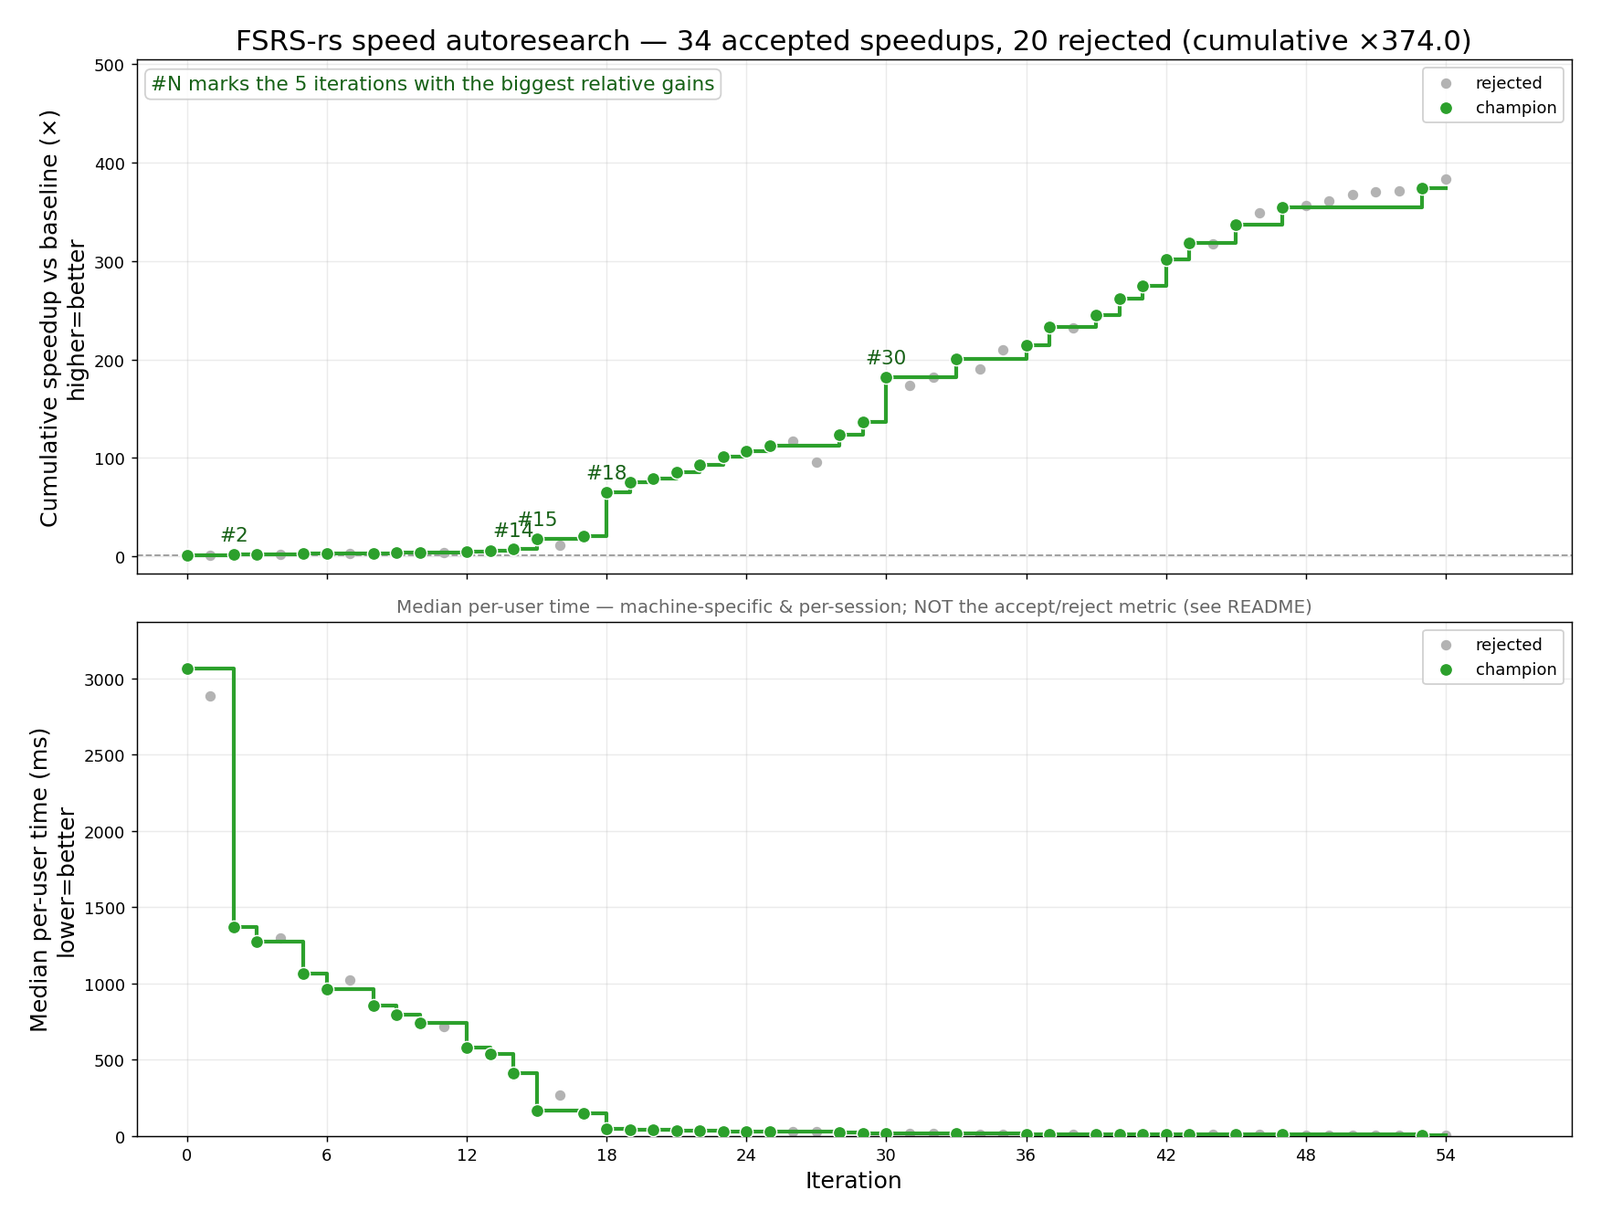
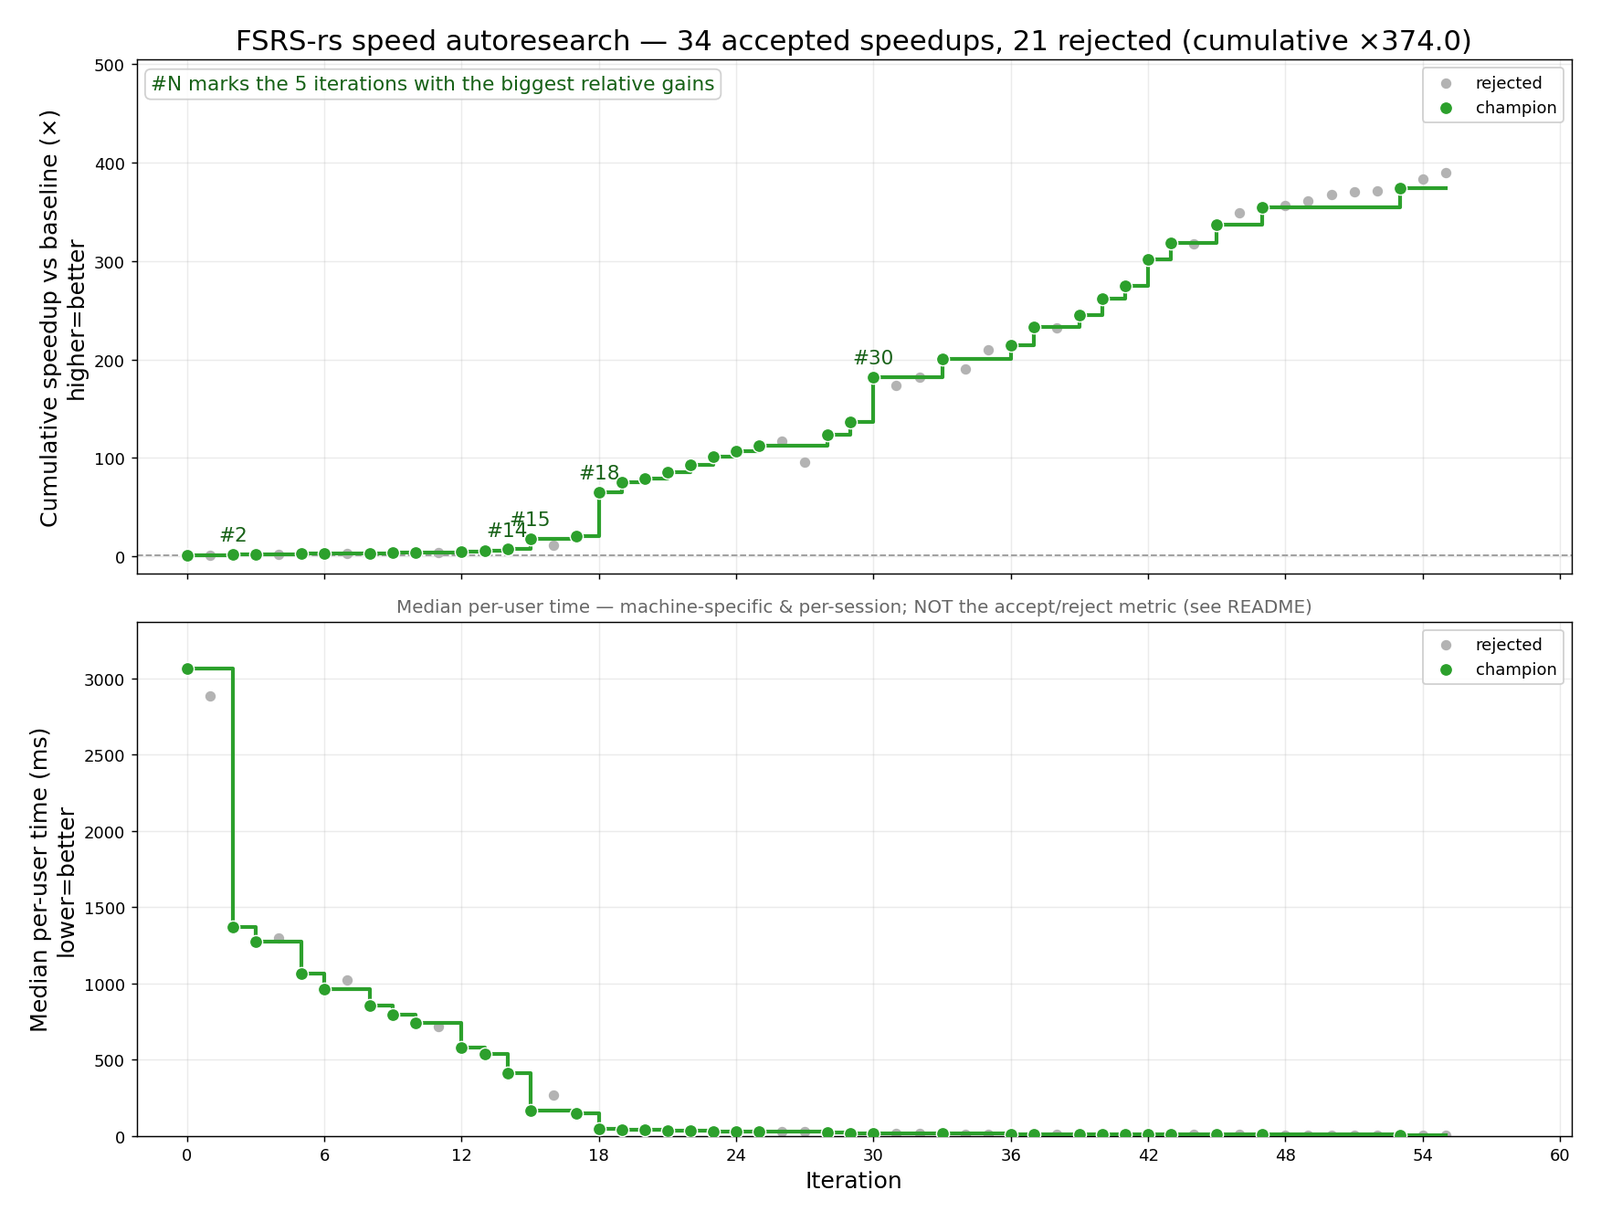
iter55 REJECTED (x1.043, kept for stacking): open-addressing card index, u64 bucket sort, last curve in the step loop
Paired vs champion cand130: 1.0450/1.0430/1.0420 (median 1.0430), n=1 x1.040.
1/50 param diff (the iter54 powf rounding user), LogLoss unchanged at 0.3083184.

diff --git a/fsrs-rs/src/kernel_simd.rs b/fsrs-rs/src/kernel_simd.rs
@@ -681,16 +681,18 @@ pub(super) fn step8_fwd<const FAST: bool, const PAD: bool>(
     w: &[f32], dt_raw: F, rating: F, state: (F, F, F), wc: &WConsts,
 ) -> ((F, F, F), Step8) {
     let mut c = Step8::default();
-    let ns = step8_fwd_into::<FAST, PAD>(w, dt_raw, rating, state, wc, &mut c);
+    let ns = step8_fwd_into::<FAST, PAD>(w, dt_raw, rating, state, wc, &mut c, false);
     (ns, c)
 }
 
 /// step8_fwd writing its cache into `slot` (reused across groups by card_group_grad): the forward
 /// stores each intermediate once, straight into the cache, instead of building the Step8 in
-/// registers and spill slots and copying it at the push. Returns the new state.
+/// registers and spill slots and copying it at the push. Returns the new state. `last`: a card
+/// group's last step, whose state update feeds no later step, computes its curve only (the loop
+/// runs the same code for it, so the hot code holds one copy of the curve).
 #[inline(always)]
 pub(super) fn step8_fwd_into<const FAST: bool, const PAD: bool>(
-    w: &[f32], dt_raw: F, rating: F, state: (F, F, F), wc: &WConsts, slot: &mut Step8,
+    w: &[f32], dt_raw: F, rating: F, state: (F, F, F), wc: &WConsts, slot: &mut Step8, last: bool,
 ) -> (F, F, F) {
     let k = F::splat;
     let one = k(1.0);
@@ -706,6 +708,9 @@ pub(super) fn step8_fwd_into<const FAST: bool, const PAD: bool>(
     let ln_last_sf = log2_8(last_sf);
     // r1 = short component recall — drives the short-trace update (iter-71)
     let (r, r1) = curve8_fwd_into::<FAST>(w, dt_raw, last_s, last_sf, last_d, wc, ln_last_s, ln_last_sf, curve);
+    if last {
+        return state;
+    }
     let slow_out = stab8_fwd_into::<FAST>(w, wc, last_s, last_d, r, rating, 7, wc.aa7, ln_last_s, slow);
     let fast_out = stab8_fwd_into::<FAST>(w, wc, last_sf, last_d, r1, rating, 15, wc.aa16, ln_last_sf, fast);
     let lapse = rating.cmp_eq(one).any();
@@ -737,10 +742,11 @@ pub(super) fn step8_fwd_into<const FAST: bool, const PAD: bool>(
 /// scored directly off this step's curve.out (nonzero only in the windowed O(N) forward, where every
 /// step emits a prediction); it is added to the two stab r-adjoints before curve8_bwd, since curve.out
 /// feeds the loss AND both stability traces. The O(N^2) callers pass 0 (their loss is the separate
-/// final curve). t >= 1 only (first8_bwd is the t==0 step).
+/// final curve). t >= 1 only (first8_bwd is the t==0 step). `last`: the curve-only last step (see
+/// step8_fwd_into); its output adjoint is 0, so only the curve's loss term contributes.
 #[inline(always)]
 pub(super) fn step8_bwd<const PAD: bool>(
-    w: &[f32], c: &Step8, g_out: (F, F, F), g_r_loss: F, gw: &mut [F; 34], wc: &WConsts,
+    w: &[f32], c: &Step8, g_out: (F, F, F), g_r_loss: F, gw: &mut [F; 34], wc: &WConsts, last: bool,
 ) -> (F, F, F) {
     let k = F::splat;
     let one = k(1.0);
@@ -749,6 +755,10 @@ pub(super) fn step8_bwd<const PAD: bool>(
     let Step8 { s0, d0, sf0, rating, curve, slow, fast, nd_out_pre, nd_delta_d, lapse } = c;
     // Cheap forward values recomputed with step8_fwd's exact ops (smaller per-step cache).
     let (last_s, last_d, last_sf) = (*s0, *d0, *sf0); // already clamped (see step8_fwd)
+    let m0 = rating.cmp_eq(z);
+    let (g_r_out, g_r1_short, acc, g_pad) = if last {
+        (g_r_loss, z, (z, z, z), (z, z, z))
+    } else {
     let nsf_pre = if *lapse {
         rating.cmp_eq(one).blend(fast.out.fast_min(k(0.8) * slow.out), fast.out)
     } else {
@@ -756,7 +766,6 @@ pub(super) fn step8_bwd<const PAD: bool>(
     };
     // PAD: rating==0 padding passes the state through (output == input), so its adjoint
     // flows straight through (see step8_fwd; the windowed path does not need this).
-    let m0 = rating.cmp_eq(z);
     let (ns3, nsf3) = if PAD {
         (m0.blend(last_s, slow.out), m0.blend(last_sf, nsf_pre))
     } else {
@@ -799,14 +808,14 @@ pub(super) fn step8_bwd<const PAD: bool>(
     // curve.out adjoint = long-stab r + windowed loss adjoint + next_d r; curve.r1 = short-stab r.
     // The input-state adjoints: g_last_s = g_ls_a + g_ls_d, g_last_sf = g_lsf_b + g_lsf_d and
     // g_last_d = ((g_ld_a + g_ld_b) + g_ld_c) + g_ld_d, summed inside curve8_bwd_acc.
-    let (mut g_last_s, mut g_last_sf, mut g_last_d) = curve8_bwd_acc::<true>(
-        w, curve, last_s, last_sf, last_d, g_r_curve + g_r_nextd, g_r1_short,
-        gw, wc, (g_ls_a, g_lsf_b, g_ld_ab + g_ld_c),
-    );
+    (g_r_curve + g_r_nextd, g_r1_short, (g_ls_a, g_lsf_b, g_ld_ab + g_ld_c), (g_ns3, g_nsf3, g_nd3))
+    };
+    let (mut g_last_s, mut g_last_sf, mut g_last_d) =
+        curve8_bwd_acc::<true>(w, curve, last_s, last_sf, last_d, g_r_out, g_r1_short, gw, wc, acc);
     if PAD {
-        g_last_s += m0.blend(g_ns3, z);
-        g_last_sf += m0.blend(g_nsf3, z);
-        g_last_d += m0.blend(g_nd3, z);
+        g_last_s += m0.blend(g_pad.0, z);
+        g_last_sf += m0.blend(g_pad.1, z);
+        g_last_d += m0.blend(g_pad.2, z);
     }
     // No clamp gate here: s0/d0/sf0 are the previous step's clamped outputs, and that step's
     // backward applies the same mask to this adjoint (S_MIN < x < S_MAX holds for the
@@ -870,10 +879,10 @@ pub(super) fn loss_and_grad_range_simd(
             curve8_bwd(w, &fc, s, sf, d, g_rraw, F::splat(0.0), &mut gw_g, &wc);
         for cache in caches.iter().rev() {
             // O(N^2) path: the only loss is the final curve (handled above), so no per-step adjoint.
-            (g_s, g_d, g_sf) = step8_bwd::<true>(w, cache, (g_s, g_d, g_sf), F::splat(0.0), &mut gw_g, &wc);
+            (g_s, g_d, g_sf) = step8_bwd::<true>(w, cache, (g_s, g_d, g_sf), F::splat(0.0), &mut gw_g, &wc, false);
         }
         first8_bwd(&first, (g_s, g_d, g_sf), &mut gw_g);
-        let gg = finish_gw::<false>(&gw_g, w, &wc);
+        let gg = finish_gw(&gw_g, w, &wc);
         for i in 0..34 {
             gw[i] += gg[i] as f64;
         }
@@ -965,6 +974,8 @@ pub(crate) fn card_group_grad(
     labels: &[f32], weights: &[f32], g: usize, caches: &mut Vec<Step8>,
 ) -> [f32; 34] {
     debug_assert!(seq_len >= 2, "windowed grad needs seq_len >= 2 (min surviving prefix length is 2)");
+    let k = F::splat;
+    let z = k(0.0);
     let c0 = g * 8;
     // This group's own length: trailing timesteps where all 8 lanes are padding (rating 0; real
     // ratings are >= 1) carry weight 0 and only pass the state through, so they add exactly 0
@@ -973,59 +984,33 @@ pub(crate) fn card_group_grad(
     while seq_len > 2 && load8(r_hist, (seq_len - 1) * batch + c0).reduce_add() == 0.0 {
         seq_len -= 1;
     }
-    if seq_len == 2 {
-        group_grad::<true>(w, wc, t_hist, r_hist, 2, batch, labels, weights, c0, caches)
-    } else {
-        group_grad::<false>(w, wc, t_hist, r_hist, seq_len, batch, labels, weights, c0, caches)
-    }
-}
-
-/// card_group_grad for a group of trimmed length `seq_len`. SHORT: `seq_len` is 2 (every card of
-/// the group has 2 reviews), so there is no cached step and only the first-review and curve slots
-/// of the gradient bank are written.
-#[allow(clippy::too_many_arguments)]
-#[inline(always)]
-fn group_grad<const SHORT: bool>(
-    w: &[f32], wc: &WConsts, t_hist: &[f32], r_hist: &[f32], seq_len: usize, batch: usize,
-    labels: &[f32], weights: &[f32], c0: usize, caches: &mut Vec<Step8>,
-) -> [f32; 34] {
-    let z = F::splat(0.0);
-    // Forward over every step EXCEPT the last (full step + cache). The last step's stability/
-    // next-difficulty update feeds no t+1, so we compute its curve only (just below) — exactly
-    // like card_loss_simd's validation skip-last. The first review (t==0) is peeled off (First8),
-    // so caches[t - 1] is step t's. The cache slots are reused across groups (only the first
-    // seq_len - 2 are this group's).
-    let n_cached = if SHORT { 0 } else { seq_len - 2 };
-    while caches.len() < n_cached {
+    // Steps 1..=seq_len-1, one cache slot each (the first review, t==0, is peeled off: First8, so
+    // caches[t - 1] is step t's). The last step's stability/next-difficulty update feeds no t+1, so
+    // it computes its curve only, like card_loss_simd's validation skip-last. The cache slots are
+    // reused across groups (only the first seq_len - 1 are this group's).
+    let n_steps = seq_len - 1;
+    while caches.len() < n_steps {
         caches.push(Step8::default());
     }
-    let caches = &mut caches[..n_cached];
+    let caches = &mut caches[..n_steps];
     let ((mut s, mut d, mut sf), first) = first8_fwd::<false>(w, load8(r_hist, c0));
-    // Steps 1..=n_cached walk the rows of the [seq, batch] arrays (so no per-step bounds checks).
-    let rows = |a| steps_rows(a, batch, n_cached);
-    for ((slot, th), rh) in caches.iter_mut().zip(rows(t_hist)).zip(rows(r_hist)) {
-        (s, d, sf) = step8_fwd_into::<false, false>(w, load8(th, c0), load8(rh, c0), (s, d, sf), wc, slot);
+    // The steps walk the rows of the [seq, batch] arrays (so no per-step bounds checks).
+    let rows = |a| steps_rows(a, batch, n_steps);
+    for (t, ((slot, th), rh)) in caches.iter_mut().zip(rows(t_hist)).zip(rows(r_hist)).enumerate() {
+        let last = t + 1 == n_steps;
+        (s, d, sf) = step8_fwd_into::<false, false>(w, load8(th, c0), load8(rh, c0), (s, d, sf), wc, slot, last);
     }
-    // Last step (t = seq_len-1, always >= 1): curve ONLY, from the incoming state (step8_fwd
-    // outputs are already clamped) — the exact curve step8_fwd would compute.
-    let lbase = (seq_len - 1) * batch + c0;
-    let dt_last = load8(t_hist, lbase); // curve8_fwd/bwd clamp it at 0 themselves
-    let fc_last = curve8_fwd::<false>(w, dt_last, s, sf, d, wc, log2_8(s), log2_8(sf));
-    // Reverse pass. The final state's adjoint is 0, so at the last step the stab/next_d backward
-    // all multiply 0 -> only curve8_bwd(loss-adjoint) contributes. BIT-FOR-BIT identical to a full
-    // step8_bwd with g_out=0. The clamp gate uses the UNCLAMPED incoming state (= s0/d0/sf0).
+    // Reverse pass, from the final state's adjoint 0 (at the last step only its curve's loss counts).
     let mut gw_g = [z; 34];
-    let g_rraw_last = g_r_loss_at(fc_last.out, weights, labels, lbase);
-    // Ungated, like step8_bwd's input adjoints (the previous step's backward applies the mask).
-    let (mut g_s, mut g_sf, mut g_d) =
-        curve8_bwd(w, &fc_last, s, sf, d, g_rraw_last, z, &mut gw_g, wc);
-    for ((cache, wr), lr) in caches.iter().zip(rows(weights)).zip(rows(labels)).rev() {
+    let (mut g_s, mut g_sf, mut g_d) = (z, z, z);
+    for (t, ((cache, wr), lr)) in caches.iter().zip(rows(weights)).zip(rows(labels)).enumerate().rev() {
         let g_r_loss = g_r_loss_at(cache.curve.out, wr, lr, c0);
-        (g_s, g_d, g_sf) = step8_bwd::<false>(w, cache, (g_s, g_d, g_sf), g_r_loss, &mut gw_g, wc);
+        let last = t + 1 == n_steps;
+        (g_s, g_d, g_sf) = step8_bwd::<false>(w, cache, (g_s, g_d, g_sf), g_r_loss, &mut gw_g, wc, last);
     }
     // init step (t==0): no prediction (min surviving prefix length is 2).
     first8_bwd(&first, (g_s, g_d, g_sf), &mut gw_g);
-    finish_gw::<SHORT>(&gw_g, w, wc)
+    finish_gw(&gw_g, w, wc)
 }
 
 /// The rows of steps 1..=n of a row-major [seq, batch] array.
@@ -1037,35 +1022,25 @@ fn steps_rows(a: &[f32], batch: usize, n: usize) -> std::slice::ChunksExact<'_, 
 /// Lane sums of a group's gradient bank, with the weight-only factors that the per-step backward
 /// leaves out: slot 27 = sum(g_z) (-> gw[27], gw[28]), slot 26 = sum(x2) and slot 28 = the direct
 /// decay2 term (-> gw[26], gw[24]), slot 25 = sum(g_lw27), slots 10 / 18 = sum(n_ln) per trace.
-pub(super) fn finish_gw<const SHORT: bool>(gw_g: &[F; 34], w: &[f32], wc: &WConsts) -> [f32; 34] {
+pub(super) fn finish_gw(gw_g: &[F; 34], w: &[f32], wc: &WConsts) -> [f32; 34] {
     // The lane sums in reduce_add's exact order (per half ((x0 + x1) + x2) + x3, as f32 sum() from
     // -0.0 gives, then low + high), four slots at a time on transposed halves instead of one slot
     // at a time through memory.
     // N = 4 (the 4-lane tail groups, see card_group_grad): one half per slot; the 8-lane sum
     // would add the empty lanes' exact zeros as the high half.
-    // SHORT (a group with no cached step): only the first-review slots 0-5 and the curve slots
-    // 23, 25-33 were written; every other slot sums to exactly 0, the value g starts with.
-    // (Slot 34 = none.)
-    const ALL: [[usize; 4]; 9] = [
-        [0, 1, 2, 3], [4, 5, 6, 7], [8, 9, 10, 11], [12, 13, 14, 15], [16, 17, 18, 19],
-        [20, 21, 22, 23], [24, 25, 26, 27], [28, 29, 30, 31], [32, 33, 34, 34],
-    ];
-    const FEW: [[usize; 4]; 4] = [[0, 1, 2, 3], [4, 5, 23, 25], [26, 27, 28, 29], [30, 31, 32, 33]];
     let halves: &[f32x4] = bytemuck::cast_slice(&gw_g[..]);
     let nh = N / 4;
     let mut g = [0.0f32; 34];
-    for q in if SHORT { &FEW[..] } else { &ALL[..] } {
-        let h = |i: usize, k: usize| if q[i] < 34 { halves[nh * q[i] + k] } else { f32x4::ZERO };
-        let lo = f32x4::transpose([h(0, 0), h(1, 0), h(2, 0), h(3, 0)]);
+    for c in (0..34).step_by(4) {
+        let h = |s: usize, k: usize| if s < 34 { halves[nh * s + k] } else { f32x4::ZERO };
+        let lo = f32x4::transpose([h(c, 0), h(c + 1, 0), h(c + 2, 0), h(c + 3, 0)]);
         let mut sum = ((lo[0] + lo[1]) + lo[2]) + lo[3];
         if nh == 2 {
-            let hi = f32x4::transpose([h(0, 1), h(1, 1), h(2, 1), h(3, 1)]);
+            let hi = f32x4::transpose([h(c, 1), h(c + 1, 1), h(c + 2, 1), h(c + 3, 1)]);
             sum += ((hi[0] + hi[1]) + hi[2]) + hi[3];
         }
-        for (&i, v) in q.iter().zip(sum.to_array()) {
-            if i < 34 {
-                g[i] = v;
-            }
+        for (k, v) in sum.to_array().into_iter().enumerate().take(34 - c) {
+            g[c + k] = v;
         }
     }
     let (s_z, s_x2, s_dec2) = (g[27], g[26], g[28]);

diff --git a/fsrs-rs/src/training.rs b/fsrs-rs/src/training.rs
@@ -23,7 +23,6 @@ use rand::rngs::StdRng;
 use rand::seq::SliceRandom;
 use serde::{Deserialize, Serialize};
 use std::collections::{HashMap, HashSet};
-use std::hash::BuildHasherDefault;
 use std::sync::atomic::{AtomicU32, AtomicU64, AtomicUsize, Ordering};
 use std::sync::{Arc, Mutex, OnceLock};
 
@@ -1550,24 +1549,6 @@ fn build_batch_host(chunk: &[WeightedFSRSItem]) -> BatchHost {
     BatchHost { seq, bsz, real_batch_size: real_bsz, th, rh, dts, lbl, wts, windowed: false, cols: bsz }
 }
 
-/// Hashes an i64 card id with one multiply (std's SipHash is DoS-hardened and ~5x slower here).
-#[derive(Default)]
-struct CardIdHasher(u64);
-
-impl std::hash::Hasher for CardIdHasher {
-    fn finish(&self) -> u64 {
-        self.0
-    }
-    fn write(&mut self, bytes: &[u8]) {
-        for &b in bytes {
-            self.0 = (self.0.rotate_left(8) ^ b as u64).wrapping_mul(0x9E37_79B9_7F4A_7C15);
-        }
-    }
-    fn write_i64(&mut self, i: i64) {
-        self.0 = (i as u64).wrapping_mul(0x9E37_79B9_7F4A_7C15);
-    }
-}
-
 /// Windowed path (card ids present): the batch PLAN built straight from the prefix-items. Each card
 /// becomes ONE column holding its FULL review sequence, taken from its longest surviving prefix
 /// (every shorter prefix is a head of it). A surviving prefix of length L (<= max_seq_len) predicts
@@ -1590,6 +1571,21 @@ struct CardedPlan {
     n_preds: usize,
 }
 
+/// The cards' `key`s ordered by full length (`at`: each length's first position), each length's
+/// keys sorted.
+fn by_length<K: Ord + Default + Clone>(cards: &[PlanCard], at: &[usize], key: impl Fn(usize) -> K) -> Vec<K> {
+    let mut keys = vec![K::default(); cards.len()];
+    let mut fill = at.to_vec();
+    for (ci, card) in cards.iter().enumerate() {
+        keys[fill[card.full_len as usize]] = key(ci);
+        fill[card.full_len as usize] += 1;
+    }
+    for l in at.windows(2) {
+        keys[l[0]..l[1]].sort_unstable();
+    }
+    keys
+}
+
 /// 12 bytes, so the per-item updates of `new` stay in cache (the id is card_ids[longest]).
 struct PlanCard {
     full_len: u32,
@@ -1602,11 +1598,15 @@ impl CardedPlan {
         // One pass in input order over the item headers only (a prefix's label is the rating of
         // review t of its card's longest prefix, and its weight depends only on its index, so both
         // are read at layout time — no per-item heap access here).
-        // Each card has one prefix of length 2 (its first prediction): their count sizes the map
-        // and the card list, so neither grows (a map rehash moves every entry).
+        // Each card has one prefix of length 2 (its first prediction): their count sizes the card
+        // index and the card list, so neither grows.
         let n_cards = items.iter().filter(|item| item.reviews.len() == 2).count();
-        let mut card_index: HashMap<i64, usize, BuildHasherDefault<CardIdHasher>> =
-            HashMap::with_capacity_and_hasher(n_cards, BuildHasherDefault::default());
+        // The card index: open addressing with linear probing on (id, card) slots (card u32::MAX =
+        // empty), at most half full (doubled if more cards arrive than counted); one multiply
+        // hashes an id.
+        let mut bits = usize::BITS - (2 * n_cards).max(8).leading_zeros();
+        let mut slots = vec![(0i64, u32::MAX); 1 << bits];
+        let home = |id: i64, bits: u32| ((id as u64).wrapping_mul(0x9E37_79B9_7F4A_7C15) >> (64 - bits)) as usize;
         let mut cards: Vec<PlanCard> = Vec::with_capacity(n_cards);
         // Each item's card (u32::MAX = skipped): 4 bytes per item, so the plan touches fewer fresh
         // pages; the grouping below reads t from the item again (in order).
@@ -1618,10 +1618,29 @@ impl CardedPlan {
                 item_card.push(u32::MAX);
                 continue;
             }
-            let ci = *card_index.entry(id).or_insert_with(|| {
+            let mut h = home(id, bits);
+            while slots[h].1 != u32::MAX && slots[h].0 != id {
+                h = (h + 1) & (slots.len() - 1);
+            }
+            let ci = if slots[h].1 != u32::MAX {
+                slots[h].1 as usize
+            } else {
+                slots[h] = (id, cards.len() as u32);
                 cards.push(PlanCard { full_len: 0, longest: 0, n_preds: 0 });
+                if cards.len() * 2 > slots.len() {
+                    bits += 1;
+                    for slot in std::mem::replace(&mut slots, vec![(0, u32::MAX); 1 << bits]) {
+                        let mut h = home(slot.0, bits);
+                        while slot.1 != u32::MAX && slots[h].1 != u32::MAX {
+                            h = (h + 1) & (slots.len() - 1);
+                        }
+                        if slot.1 != u32::MAX {
+                            slots[h] = slot;
+                        }
+                    }
+                }
                 cards.len() - 1
-            });
+            };
             let card = &mut cards[ci];
             // >= keeps the LAST longest prefix (max_by_key's tie rule).
             if len as u32 >= card.full_len {
@@ -1646,7 +1665,9 @@ impl CardedPlan {
             }
         }
         // Order the cards by (full length, card id), a total order (a card's id is unique): a
-        // counting sort by full length (<= max_seq_len), then each length's cards by id.
+        // counting sort by full length (<= max_seq_len), then each length's cards by id. The id
+        // sort runs on one u64 per card, (id - min id) << bits | card index, when the id span fits
+        // (card ids are millisecond timestamps, so it does), else on (id, index) pairs.
         let mut at = vec![0usize; max_seq_len + 2];
         for card in &cards {
             at[card.full_len as usize + 1] += 1;
@@ -1654,16 +1675,16 @@ impl CardedPlan {
         for l in 1..at.len() {
             at[l] += at[l - 1];
         }
-        let mut keys = vec![(0i64, 0u32); cards.len()];
-        let mut fill = at.clone();
-        for (ci, card) in cards.iter().enumerate() {
-            keys[fill[card.full_len as usize]] = (card_ids[card.longest as usize], ci as u32);
-            fill[card.full_len as usize] += 1;
-        }
-        for l in at.windows(2) {
-            keys[l[0]..l[1]].sort_unstable_by_key(|k| k.0);
-        }
-        let order: Vec<usize> = keys.iter().map(|k| k.1 as usize).collect();
+        let id = |ci: usize| card_ids[cards[ci].longest as usize];
+        let min_id = (0..cards.len()).map(id).min().unwrap_or(0);
+        let span = (0..cards.len()).map(|ci| id(ci).abs_diff(min_id)).max().unwrap_or(0);
+        let bits = usize::BITS - cards.len().leading_zeros();
+        let order: Vec<usize> = if span >> (64 - bits) == 0 {
+            let keys = by_length(&cards, &at, |ci| id(ci).abs_diff(min_id) << bits | ci as u64);
+            keys.iter().map(|k| (k & ((1 << bits) - 1)) as usize).collect()
+        } else {
+            by_length(&cards, &at, |ci| (id(ci), ci)).iter().map(|k| k.1).collect()
+        };
         let mut bounds = Vec::new();
         let (mut first, mut current_preds) = (0, 0);
         for (k, &ci) in order.iter().enumerate() {

diff --git a/result/history.md b/result/history.md
@@ -59,6 +59,7 @@ Accept metric: **median per-user speed_ratio ≥ 1.05** (constraint 12) AND **sp
 | 52 | 7 | 7 | 1.048 | 11258 | 11345 | 1.008 | 1.019 | ✓ | rejected | iter51 plus groups claimed in order, main adds each group as it finishes |
 | 53 | 7 | 6 | 1.056 | 11258 | 11364 | 1.009 | 1.024 | ✓ | accepted | iter52 stack plus row walks, one-select hard/easy factor, layout touch pass |
 | 54 | 6 | 6 | 1.024 | 11364 | 11438 | 1.006 | 1.016 | ✓ | rejected | correctly rounded f64 recency power, main lays out two batches, short-group finish |
+| 55 | 6 | 6 | 1.043 | 11364 | 11452 | 1.008 | 1.020 | ✓ | rejected | iter54 stack plus open-addressing card index, u64 length-bucket sort, last curve in loop |
 
 **Cumulative speed_ratio (product of accepted): ×373.960** — upward-biased (winner's curse); anchor periodically vs iter-0 baseline.
 
